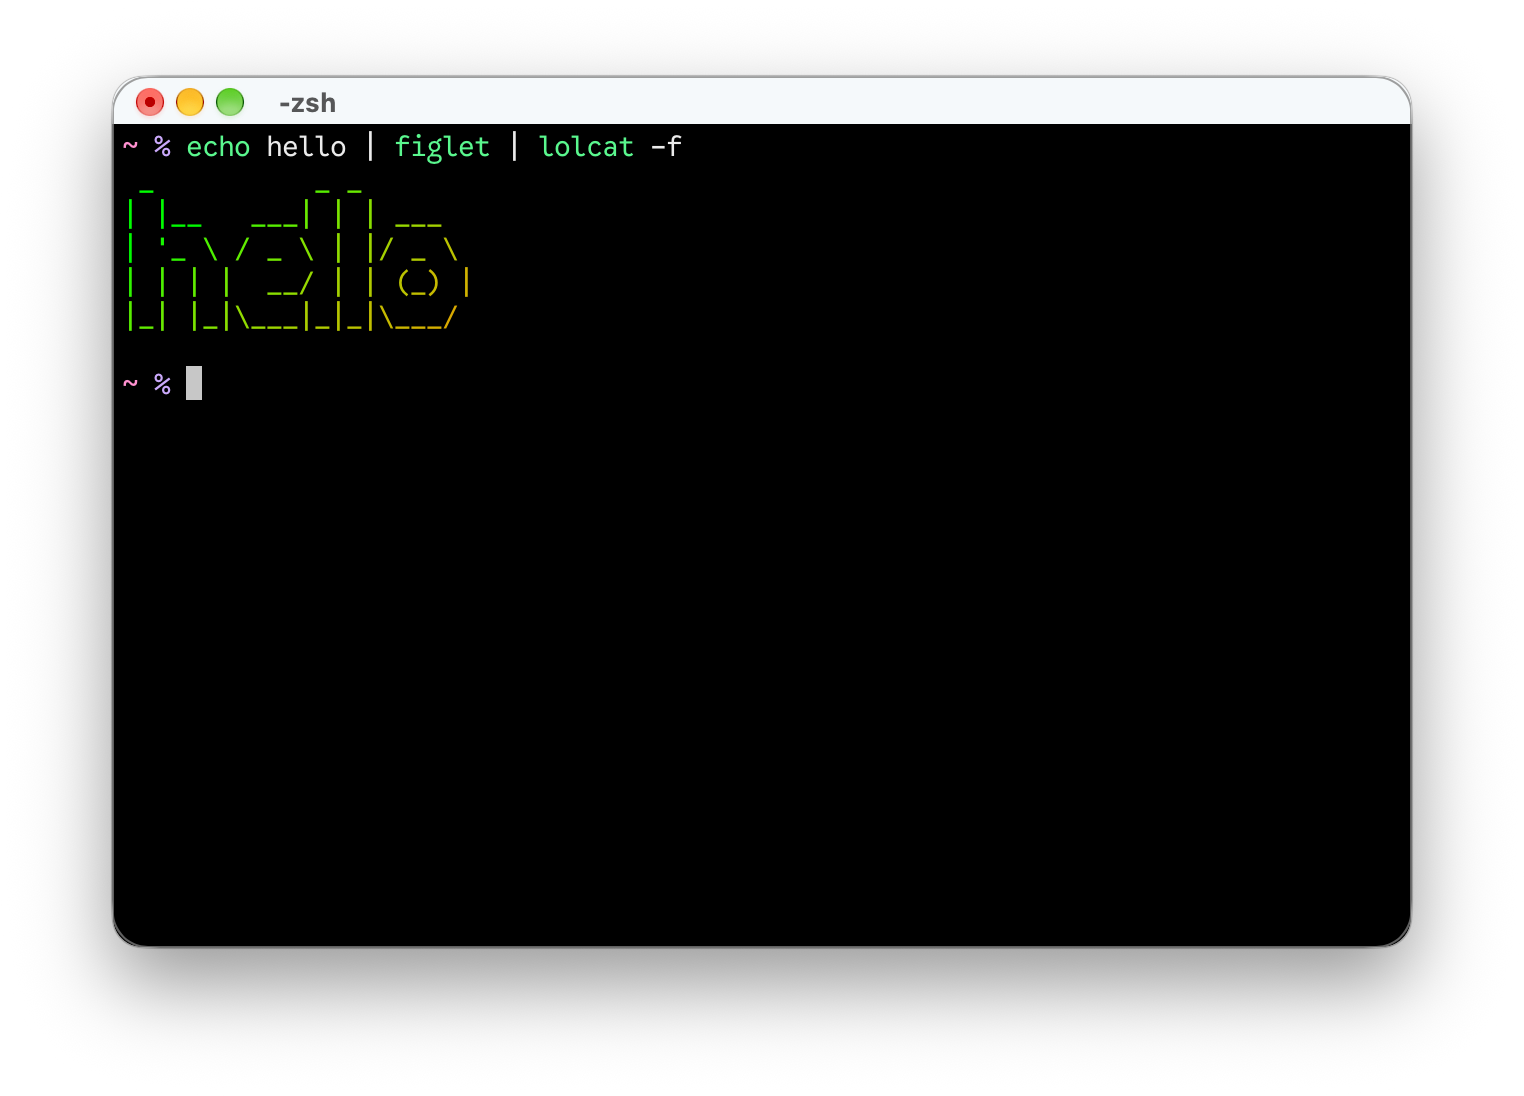
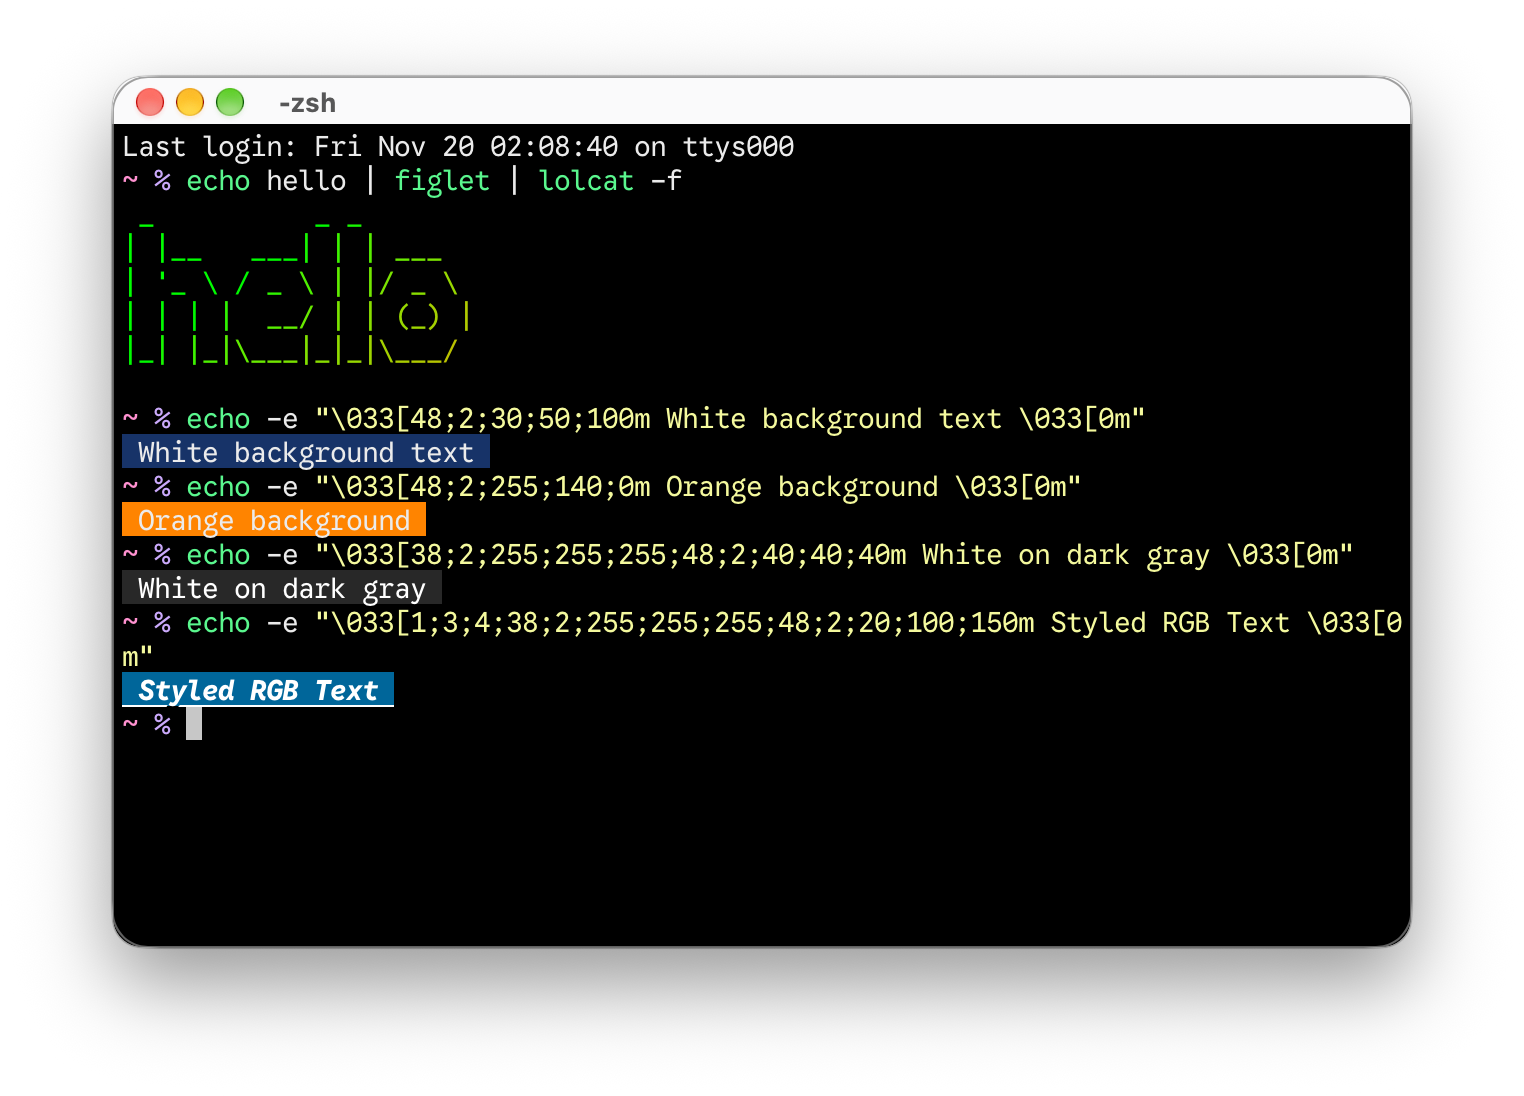
doc: show an HTML example

Changed region(s): [[0.0617, 0.1241, 0.9252, 0.6825]]

diff --git a/README.md b/README.md
@@ -6,7 +6,18 @@ Yet another ANSI to HTML converter
 
 It is designed primarily as a supplement for iTerm2, handling some of its ANSI escape sequence behavior that may not be handled correctly by existing ANSI-to-HTML converters. `ansi2html` makes it easy to copy the following text, for example, and paste it into HTML with colors and styling.
 
+Input:
+
 ![color.png](<./color.png>)
+Output:
+
+```html
+Last login: Fri Nov 20 02:08:40 on ttys000
+<span style="color:var(--ansi-bright-magenta);">~</span><span style="color:var(--ansi-bright-blue);"> %</span> <span style="color:var(--ansi-green);">echo</span> hello | <span style="color:var(--ansi-green);">figlet</span> | <span style="color:var(--ansi-green);">lolcat</span> -f
+<span style="color:#3bfe45;"> </span><span style="color:#3ffe41;">_</span><span style="color:#43fe3d;"> </span><span style="color:#46fe3a;"> </span><span style="color:#4afe36;"> ...
+
+<span style="color:#ffffff; background-color:#146496; font-weight:700; font-style:italic; text-decoration:underline;"> Styled RGB Text </span> ...
+```
 
 ## Goals
 
@@ -94,7 +105,7 @@ Define the variables in your HTML:
 }
 ```
 
-You can customize these values to match your iTerm2 color scheme.
+You can customize these values to match your iTerm2 color scheme. You can also define different colors for printing using the `@media print` directive.
 
 ## Command-Line Usage
 
